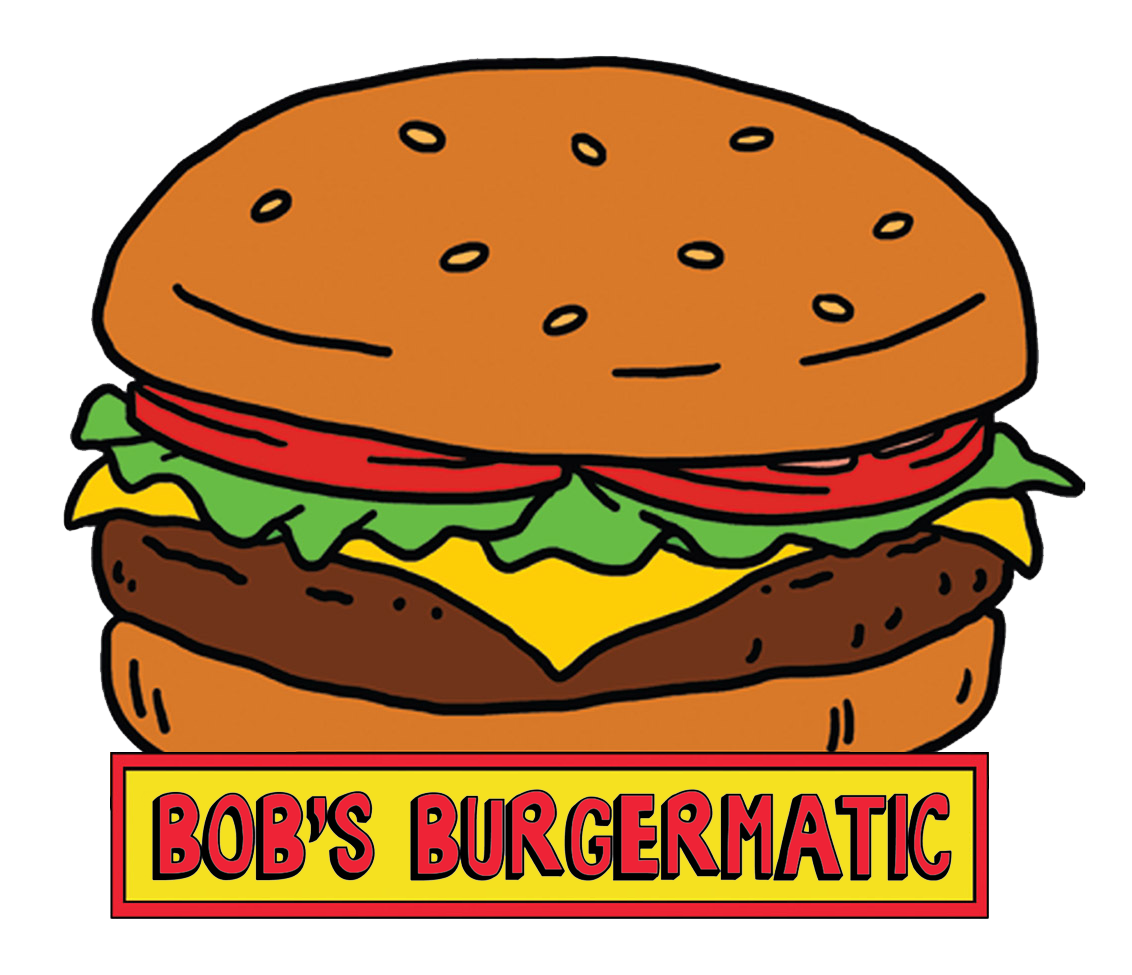
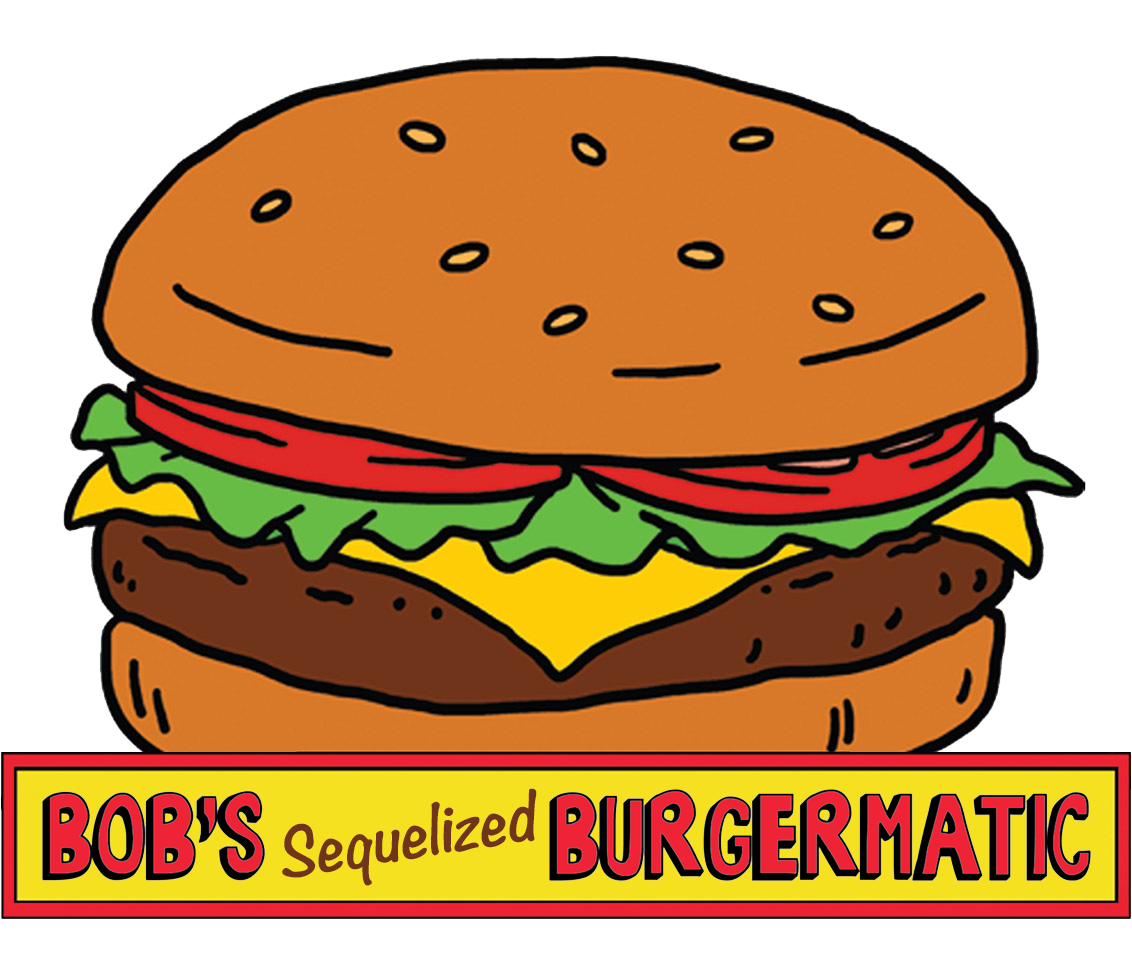
partial functioning test on heroku

Changed region(s): [[0.0, 0.7692, 1.0, 0.9538]]

diff --git a/routes/api-routes.js b/routes/api-routes.js
@@ -1,0 +1,78 @@
+// *********************************************************************************
+// api-routes.js - this file offers a set of routes for displaying and saving data to the db
+// *********************************************************************************
+
+// Dependencies
+// =============================================================
+
+// Grabbing our models
+const db = require("../models");
+
+// Routes
+// =============================================================
+module.exports = app => {
+
+  // GET route for getting all of the burgers
+
+ app.get("/", function(req, res) {
+    // Add sequelize code to find all posts, and return them to the user with res.json
+    
+    db.Burger.findAll({}).then(function(results) {
+            // res.json(results);
+            const hbsObject = {
+      burgers: results
+    };
+    console.log(JSON.stringify(hbsObject,null,2));
+    res.render("index", hbsObject);
+        });
+
+  });
+
+
+  app.get("/api", (req, res) =>  
+      // findAll returns all entries for a table when used with no options
+      db.Burger.findAll({}).then(result => res.json(result)));
+
+
+
+
+  // POST route for saving a new burger
+  app.post("/api/burgers", (req, res) => {
+      console.log(JSON.stringify(req.body,null,2));
+      
+      // create takes an argument of an object describing the item we want to
+      // insert into our table. In this case we just we pass in an object with a burger_name
+      // and eaten property (req.body)
+      db.Burger.create({
+          burger_name: req.body.burger_name
+          
+      })
+      .then(result => res.json(result))
+      .catch(err => res.json(err));
+  });
+
+  // PUT route for updating burgers. 
+  // We get the updated burger data from req.body
+  app.put("/api/burgers", (req, res) => {
+      console.log(JSON.stringify(req.body,null,2));
+
+      // Update takes in an object describing the properties we want to update, and
+      // we use where to specify which objects we want to update
+      db.Burger.update({
+          burger_name: req.body.burger_name,
+          eaten: req.body.eaten
+      }, {where: {id: req.body.id}})
+      .then(result => res.json(result))
+      .catch(err => res.json(err));
+  });
+
+   // DELETE route for deleting burgers. 
+  // We get the id of the burger to delete from req.params.id
+  app.delete("/api/burgers/:id", (req, res) => {
+      console.log(`Delete Burger with id = ${req.params.id}`);
+    
+      // We just have to specify which burger we want to destroy with "where"
+      db.Burger.destroy({ where: { id: req.params.id }})
+        .then(result => res.json(result));
+  });
+};

diff --git a/models/burger.js b/models/burger.js
@@ -1,30 +1,53 @@
-// Import the ORM to create functions that will interact with the database.
-const orm = require("../config/orm.js");
+// // Import the ORM to create functions that will interact with the database.
+// const orm = require("../config/orm.js");
 
-const cat = {
+// const cat = {
 
-  all: function(cb) {
-    orm.all("burgers", function(res) {
-      cb(res);
-    });
-  },
+//   all: function(cb) {
+//     orm.all("burgers", function(res) {
+//       cb(res);
+//     });
+//   },
 
-  // The variables cols and vals are arrays.
-  create: function(cols, vals, cb) {
-    orm.create("burgers", cols, vals, function(res) {
-      cb(res);
-    });
-  },
+//   // The variables cols and vals are arrays.
+//   create: function(cols, vals, cb) {
+//     orm.create("burgers", cols, vals, function(res) {
+//       cb(res);
+//     });
+//   },
 
-  update: function(objColVals, condition, cb) {
-    orm.update("burgers", objColVals, condition, function(res) {
-      cb(res);
-    });
-  },
+//   update: function(objColVals, condition, cb) {
+//     orm.update("burgers", objColVals, condition, function(res) {
+//       cb(res);
+//     });
+//   },
 
-  delete: (condition, cb) => orm.delete("burgers", condition, cb)
+//   delete: (condition, cb) => orm.delete("burgers", condition, cb)
 
-};
+// };
 
-// Export the database functions for the controller (burgersController.js).
-module.exports = cat;
+// // Export the database functions for the controller (burgersController.js).
+// module.exports = cat;
+
+
+module.exports = (db, dbType) =>
+    db.define("Burger", {
+        burger_name: {
+            type: dbType.STRING,
+            // AllowNull controls whether the column value can be NULL
+            allowNull: false,
+            // len is a validation that limits the column length to a range
+            validate: {
+                len: [1, 140]
+            }
+        },
+        eaten: {
+            type: dbType.BOOLEAN,
+            // defaultValue sets a value to use if the column isn't supplied one
+            defaultValue: false
+        }
+    }
+    , {
+    timestamps: false
+});
+ 

diff --git a/models/index.js b/models/index.js
@@ -1,0 +1,36 @@
+'use strict';
+
+var fs        = require('fs');
+var path      = require('path');
+var Sequelize = require('sequelize');
+var basename  = path.basename(__filename);
+var env       = process.env.NODE_ENV || 'development';
+var config    = require(__dirname + '/../config/config.json')[env];
+var db        = {};
+
+if (config.use_env_variable) {
+  var sequelize = new Sequelize(process.env[config.use_env_variable], config);
+} else {
+  var sequelize = new Sequelize(config.database, config.username, config.password, config);
+}
+
+fs
+  .readdirSync(__dirname)
+  .filter(file => {
+    return (file.indexOf('.') !== 0) && (file !== basename) && (file.slice(-3) === '.js');
+  })
+  .forEach(file => {
+    var model = sequelize['import'](path.join(__dirname, file));
+    db[model.name] = model;
+  });
+
+Object.keys(db).forEach(modelName => {
+  if (db[modelName].associate) {
+    db[modelName].associate(db);
+  }
+});
+
+db.sequelize = sequelize;
+db.Sequelize = Sequelize;
+
+module.exports = db;

diff --git a/server.js b/server.js
@@ -5,6 +5,8 @@ const PORT = process.env.PORT || 8080;
 
 const app = express();
 
+const db = require("./models");
+
 // Serve static content for the app from the "public" directory in the application directory.
 app.use(express.static("public"));
 
@@ -21,9 +23,13 @@ app.engine("handlebars", exphbs({ defaultLayout: "main" }));
 app.set("view engine", "handlebars");
 
 // Import routes and give the server access to them.
-const routes = require("./controllers/burgersController.js");
+// const routes = require("./controllers/burgersController.js");
 
-app.use(routes);
+// Routes
+// =============================================================
+require("./routes/api-routes")(app);
+
+// app.use(routes);
 
 // Start our server so that it can begin listening to client requests.
 app.listen(PORT, () => {

diff --git a/controllers/burgersController.js b/controllers/burgersController.js
@@ -2,12 +2,13 @@ const express = require("express");
 
 const router = express.Router();
 
-// Import the model (burger.js) to use its database functions.
-const burger = require("../models/burger.js");
-
-console.log("I got this burger.js! -- " + burger);
+// // Import the model (burger.js) to use its database functions.
+// const burger = require("../models/burger.js");
 
 // Create all our routes and set up logic within those routes where required.
+
+// this file is old, see api-routes.js instead
+
 router.get("/", function(req, res) {
   burger.all(function(data) {
     const hbsObject = {
